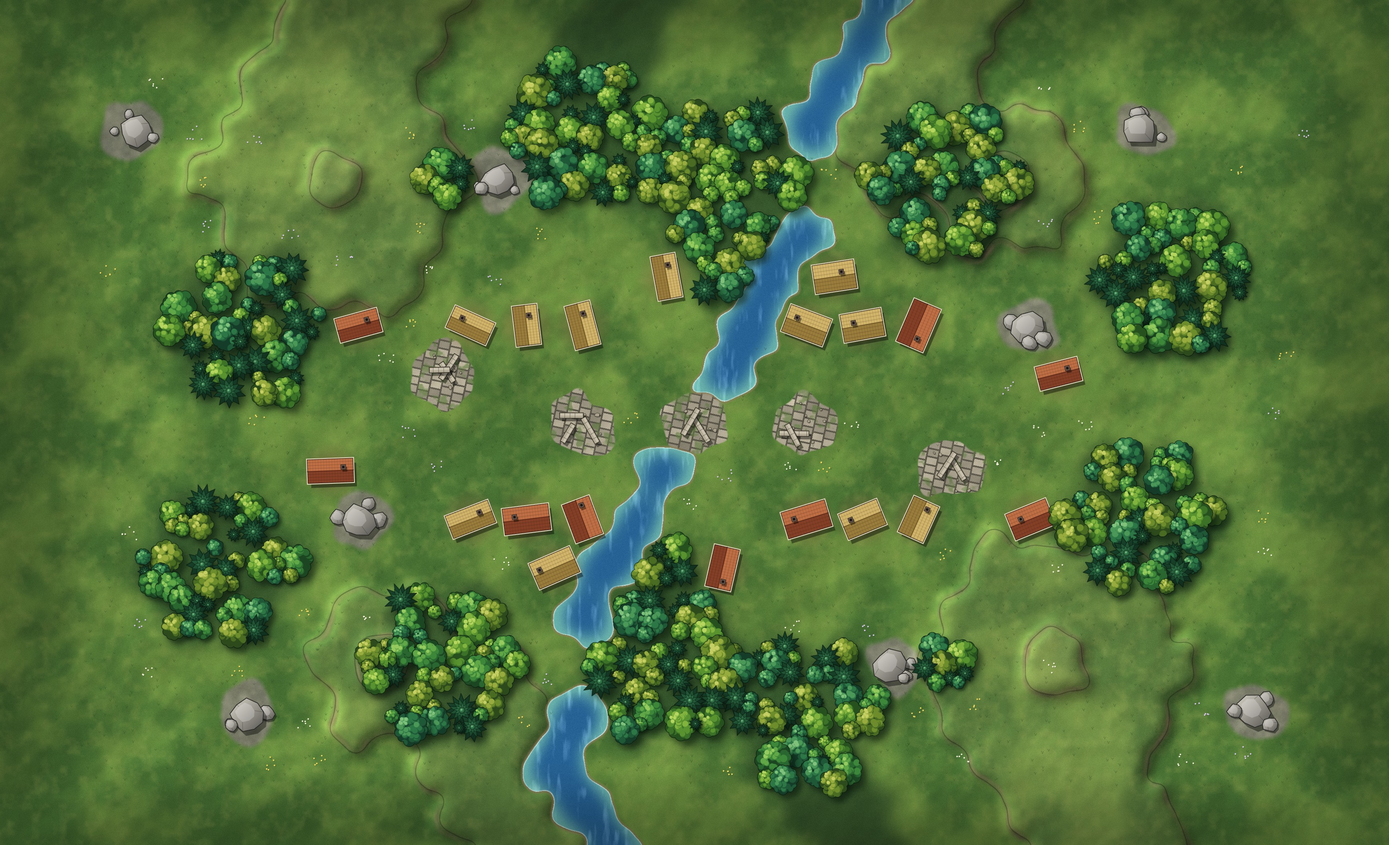
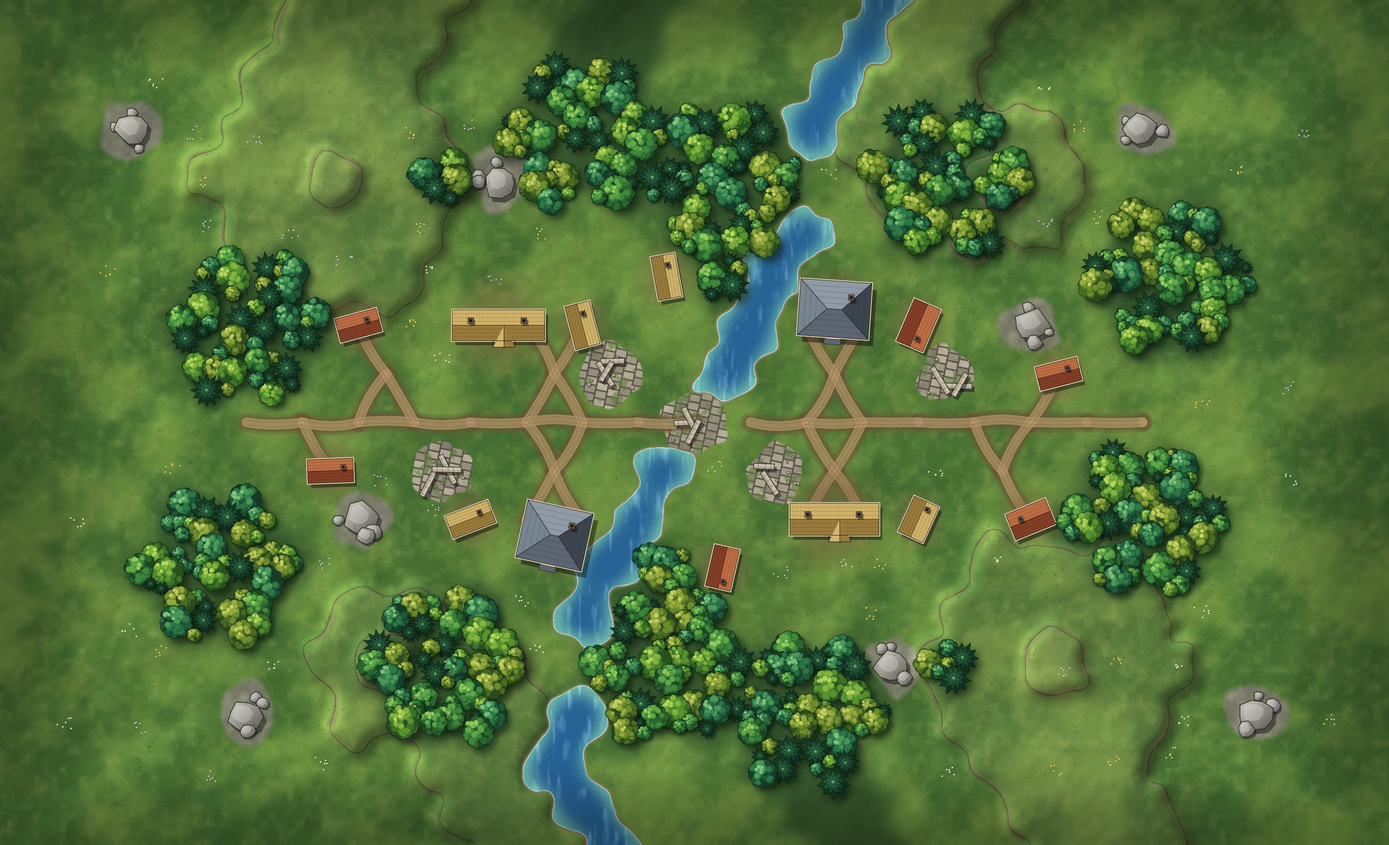
Paint adjacent houses as halls and manors; add roads

diff --git a/src/paint.js b/src/paint.js
@@ -27,6 +27,47 @@ export function houseLayout(q, r) {
   return { ang, w, d, t, off, dx: lx * Math.cos(ang) - ly * Math.sin(ang), dy: lx * Math.sin(ang) + ly * Math.cos(ang), thatch: h(77) < 0.4 };
 }
 
+// The buildings a set of cells makes. House hexes next to each other join up: three that all touch
+// become a manor, two a long hall, the rest stand alone. Each building is
+//   { cells, kind: 'house' | 'hall' | 'manor', ang, w, d, thatch, chim: [{t, off, dx, dy}] }
+// with sizes in units of the hex size and the chimneys given from the building's middle (the
+// average of its hexes' centres). Deterministic, so the painter and the smoke agree.
+export function buildings(cellList) {
+  const houses = cellList.filter((c) => c.t === 'house').sort((x, y) => x.r - y.r || x.q - y.q);
+  const at = new Map(houses.map((c) => [key(c.q, c.r), c])), used = new Set(), out = [];
+  const N = [[1, 0], [1, -1], [0, -1], [-1, 0], [-1, 1], [0, 1]];
+  const free = (c) => N.map(([dq, dr]) => at.get(key(c.q + dq, c.r + dr))).filter((n) => n && !used.has(n));
+  const px = (c) => [Math.sqrt(3) * (c.q + c.r / 2), 1.5 * c.r];
+  const chimney = (ang, w, d, t, off) => { const lx = t * w, ly = off * d; return { t, off, dx: lx * Math.cos(ang) - ly * Math.sin(ang), dy: lx * Math.sin(ang) + ly * Math.cos(ang) }; };
+  for (const c of houses) {                              // manors first
+    if (used.has(c)) continue;
+    const nb = free(c);
+    let trio = null;
+    for (const x of nb) for (const y of nb) if (x !== y && dist(x, y) === 1) trio = trio || [c, x, y];
+    if (!trio) continue;
+    trio.forEach((x) => used.add(x));
+    const h = (n) => hash(c.q * 3 + 11, c.r * 5 + 7, n), ang = (h(81) - 0.5) * 0.5, w = 1.02 + h(82) * 0.1, d = 0.86 + h(83) * 0.08;
+    out.push({ cells: trio, kind: 'manor', ang, w, d, thatch: false, chim: [chimney(ang, w, d, h(84) < 0.5 ? -0.45 : 0.45, -0.45)] });
+  }
+  for (const c of houses) {                              // then halls
+    if (used.has(c)) continue;
+    const n = free(c)[0];
+    if (!n) continue;
+    used.add(c); used.add(n);
+    const [x0, y0] = px(c), [x1, y1] = px(n), h = (k) => hash(c.q * 3 + 11, c.r * 5 + 7, k);
+    let ang = Math.atan2(y1 - y0, x1 - x0);
+    if (ang > Math.PI / 2 || ang <= -Math.PI / 2) ang += Math.PI * (ang > 0 ? -1 : 1);     // keep the lit slope on top
+    const w = 1.36 + h(85) * 0.08, d = 0.46 + h(86) * 0.07;
+    out.push({ cells: [c, n], kind: 'hall', ang, w, d, thatch: h(87) < 0.35, chim: [chimney(ang, w, d, -0.6, -0.3), chimney(ang, w, d, 0.55, -0.3)] });
+  }
+  for (const c of houses) {                              // the rest stand alone
+    if (used.has(c)) continue;
+    const lay = houseLayout(c.q, c.r);
+    out.push({ cells: [c], kind: 'house', ang: lay.ang, w: lay.w, d: lay.d, thatch: lay.thatch, chim: [{ t: lay.t, off: lay.off, dx: lay.dx, dy: lay.dy }] });
+  }
+  return out;
+}
+
 function hash(x, y, s) {
   let h = Math.imul(x | 0, 374761393) ^ Math.imul(y | 0, 668265263) ^ Math.imul(s | 0, 1442695041);
   h = Math.imul(h ^ (h >>> 13), 1274126177);
@@ -302,6 +343,37 @@ export function paintBackdrop(map, { hexPx = 140, seed = 7, biome = 'meadow' } =
   };
   ctx.lineJoin = 'round'; ctx.lineCap = 'round';
 
+  // Roads: a trodden track from each road hex to the road hexes next to it, onto a bridge (ruins by water), and up to a house's door.
+  {
+    const N = [[1, 0], [1, -1], [0, -1], [-1, 0], [-1, 1], [0, 1]];
+    const segs = [], seen = new Set();
+    for (const c of sorted) {
+      if (c.t !== 'road') continue;
+      for (const [dq, dr] of N) {
+        const n = map.cells[key(c.q + dq, c.r + dr)];
+        if (!n || (n.t !== 'road' && n.t !== 'ruins' && n.t !== 'house')) continue;
+        // Ruins count only as a bridge (next to water); a house gets one path, from the first road hex that reaches it.
+        if (n.t === 'ruins' && !N.some(([aq, ar]) => map.cells[key(n.q + aq, n.r + ar)]?.t === 'water')) continue;
+        const id = n.t === 'road' ? [key(c.q, c.r), key(n.q, n.r)].sort().join('|') : '>' + key(n.q, n.r);
+        if (seen.has(id)) continue;
+        seen.add(id);
+        const [x0, y0] = centre(c), [x1, y1] = centre(n), bend = (hash(c.q + n.q, c.r + n.r, seed + 90) - 0.5) * s * 0.5;
+        segs.push([x0, y0, x1, y1, (x0 + x1) / 2 - (y1 - y0) / (s * 1.73) * bend, (y0 + y1) / 2 + (x1 - x0) / (s * 1.73) * bend]);
+      }
+      if (!segs.some((g0) => g0[0] === centre(c)[0] && g0[1] === centre(c)[1])) { const [x, y] = centre(c); segs.push([x, y, x + 0.01, y, x, y]); }   // a lone road hex
+    }
+    const dirt = snow ? ['rgba(150,160,176,', 'rgba(196,204,216,'] : desert ? ['rgba(168,132,90,', 'rgba(232,206,160,'] : cave ? ['rgba(48,44,42,', 'rgba(104,96,88,'] : ['rgba(104,84,52,', 'rgba(176,148,104,'];
+    for (const [col, width, alpha] of [[dirt[0], 0.62, 0.3], [dirt[0], 0.46, 0.5], [dirt[1], 0.3, 0.75]]) {
+      ctx.strokeStyle = col + alpha + ')'; ctx.lineWidth = s * width;
+      for (const [x0, y0, x1, y1, mx, my] of segs) { ctx.beginPath(); ctx.moveTo(x0, y0); ctx.quadraticCurveTo(mx, my, x1, y1); ctx.stroke(); }
+    }
+    ctx.strokeStyle = 'rgba(40,28,14,0.22)'; ctx.lineWidth = 1.2;                                     // cart ruts
+    for (const [x0, y0, x1, y1, mx, my] of segs) for (const off of [-0.07, 0.07]) {
+      const nx = -(y1 - y0), ny = x1 - x0, nl = Math.hypot(nx, ny) || 1, ox = nx / nl * s * off, oy = ny / nl * s * off;
+      ctx.beginPath(); ctx.moveTo(x0 + ox, y0 + oy); ctx.quadraticCurveTo(mx + ox, my + oy, x1 + ox, y1 + oy); ctx.stroke();
+    }
+  }
+
   // Meadow details: grass tufts, a few flowers.
   for (const c of sorted) {
     if (c.t !== 'grass' || snow) continue;
@@ -466,28 +538,43 @@ export function paintBackdrop(map, { hexPx = 140, seed = 7, biome = 'meadow' } =
 
   }
 
-  // Houses, seen from above: a pitched roof (one slope lit, one in shade), a ridge, a chimney, and
-  // a trodden yard around it. Tiled or thatched in a meadow, snow-covered in winter, flat-roofed
-  // adobe in the desert, stone in a cave.
-  for (const c of sorted) {
-    if (c.t !== 'house') continue;
-    const [cx, cy] = centre(c);
-    const lay = houseLayout(c.q, c.r), w = lay.w * s, d = lay.d * s;
-    const yard = ctx.createRadialGradient(cx, cy, s * 0.2, cx, cy, s * 0.95);
+  // Buildings, seen from above: a pitched roof (one slope lit, one in shade), a ridge, chimneys,
+  // and a trodden yard. Tiled or thatched in a meadow, snow-covered in winter, flat-roofed adobe
+  // in the desert, stone in a cave. Halls are long, manors have a hipped roof and a porch.
+  for (const b of buildings(sorted)) {
+    let cx = 0, cy = 0;
+    for (const c of b.cells) { const [x, y] = centre(c); cx += x / b.cells.length; cy += y / b.cells.length; }
+    const w = b.w * s, d = b.d * s, reach = Math.max(w, d) + s * 0.4;
+    const yard = ctx.createRadialGradient(cx, cy, reach * 0.3, cx, cy, reach);
     yard.addColorStop(0, snow ? 'rgba(150,160,175,0.45)' : cave ? 'rgba(60,54,50,0.5)' : 'rgba(124,98,62,0.55)'); yard.addColorStop(1, 'rgba(124,98,62,0)');
-    ctx.fillStyle = yard; ctx.beginPath(); ctx.arc(cx, cy, s * 0.95, 0, 6.3); ctx.fill();
+    ctx.fillStyle = yard; ctx.beginPath(); ctx.arc(cx, cy, reach, 0, 6.3); ctx.fill();
     const roof = snow ? ['#f6f9fd', '#c2ccdb', '#8b97aa'] : desert ? ['#e2c596', '#cfae7c', '#9c7d52'] : cave ? ['#8a857f', '#57534f', '#3a3734']
-      : lay.thatch ? ['#d2b56a', '#9a7d3c', '#6d5626'] : ['#c06f45', '#853f27', '#5e2a1a'];
+      : b.thatch ? ['#d2b56a', '#9a7d3c', '#6d5626'] : b.kind === 'manor' ? ['#8f9aa6', '#5c6672', '#3c444e'] : ['#c06f45', '#853f27', '#5e2a1a'];
     ctx.save();
-    ctx.translate(cx, cy); ctx.rotate(lay.ang);
-    const sx = s * 0.1 * Math.cos(-lay.ang) - s * 0.14 * Math.sin(-lay.ang), sy = s * 0.1 * Math.sin(-lay.ang) + s * 0.14 * Math.cos(-lay.ang);
+    ctx.translate(cx, cy); ctx.rotate(b.ang);
+    const sh = b.kind === 'manor' ? 1.5 : 1;                                                           // taller buildings throw longer shadows
+    const sx = sh * (s * 0.1 * Math.cos(-b.ang) - s * 0.14 * Math.sin(-b.ang)), sy = sh * (s * 0.1 * Math.sin(-b.ang) + s * 0.14 * Math.cos(-b.ang));
     ctx.fillStyle = 'rgba(0,0,0,0.42)'; ctx.fillRect(-w + sx, -d + sy, 2 * w, 2 * d);                 // shadow
     ctx.fillStyle = snow ? '#6f5a48' : desert ? '#b8935f' : cave ? '#2c2a28' : '#e9dcc0';             // walls showing under the eaves
     ctx.fillRect(-w - s * 0.035, -d - s * 0.035, 2 * w + s * 0.07, 2 * d + s * 0.07);
+    const P = (pts, fill) => { ctx.beginPath(); pts.forEach(([x, y], i) => (i ? ctx.lineTo(x, y) : ctx.moveTo(x, y))); ctx.closePath(); ctx.fillStyle = fill; ctx.fill(); };
     if (desert) {                                                                                     // flat roof with a parapet
       ctx.fillStyle = roof[1]; ctx.fillRect(-w, -d, 2 * w, 2 * d);
       ctx.fillStyle = roof[0]; ctx.fillRect(-w + s * 0.07, -d + s * 0.07, 2 * w - s * 0.14, 2 * d - s * 0.14);
       ctx.fillStyle = 'rgba(60,40,20,0.5)'; ctx.fillRect(w * 0.25, -d * 0.45, s * 0.14, s * 0.14);      // roof hatch
+    } else if (b.kind === 'manor') {                                                                  // hipped: four slopes meeting at a short ridge
+      const rx = Math.max(0, w - d);
+      P([[-w, -d], [w, -d], [rx, 0], [-rx, 0]], roof[0]);
+      P([[-w, d], [w, d], [rx, 0], [-rx, 0]], roof[1]);
+      P([[-w, -d], [-rx, 0], [-w, d]], snow ? '#dfe6f0' : cave ? '#726d68' : '#788490');
+      P([[w, -d], [rx, 0], [w, d]], roof[2]);
+      ctx.strokeStyle = 'rgba(20,24,30,0.3)'; ctx.lineWidth = 1;
+      for (let i = 1; i < 5; i++) { const k = i / 5; ctx.strokeRect(-w * k - rx * (1 - k), -d * k, 2 * (w * k + rx * (1 - k)), 2 * d * k); }
+      ctx.strokeStyle = 'rgba(16,18,22,0.75)'; ctx.lineWidth = 1.6;
+      ctx.beginPath(); ctx.moveTo(-w, -d); ctx.lineTo(-rx, 0); ctx.lineTo(-w, d); ctx.moveTo(w, -d); ctx.lineTo(rx, 0); ctx.lineTo(w, d); ctx.moveTo(-rx, 0); ctx.lineTo(rx, 0); ctx.stroke();
+      ctx.fillStyle = snow ? '#6f5a48' : '#d9ccb0'; ctx.fillRect(-s * 0.22, d, s * 0.44, s * 0.2);      // porch
+      ctx.fillStyle = roof[1]; ctx.fillRect(-s * 0.26, d + s * 0.06, s * 0.52, s * 0.16);
+      ctx.strokeStyle = 'rgba(16,18,22,0.75)'; ctx.lineWidth = 1.2; ctx.strokeRect(-s * 0.26, d + s * 0.06, s * 0.52, s * 0.16);
     } else {
       ctx.fillStyle = roof[0]; ctx.fillRect(-w, -d, 2 * w, d);                                         // lit slope
       ctx.fillStyle = roof[1]; ctx.fillRect(-w, 0, 2 * w, d);                                          // shaded slope
@@ -496,13 +583,22 @@ export function paintBackdrop(map, { hexPx = 140, seed = 7, biome = 'meadow' } =
       ctx.strokeStyle = 'rgba(30,18,10,0.14)';
       for (let x = -w + s * 0.08; x < w; x += s * 0.085) { ctx.beginPath(); ctx.moveTo(x, -d); ctx.lineTo(x, d); ctx.stroke(); }
       ctx.strokeStyle = roof[2]; ctx.lineWidth = 2.2; ctx.beginPath(); ctx.moveTo(-w, 0); ctx.lineTo(w, 0); ctx.stroke();   // ridge
+      if (b.kind === 'hall') {                                                                         // a cross-gable breaks up the long roof
+        const gx = w * 0.12, gw = s * 0.34;
+        P([[gx - gw, d + s * 0.2], [gx, 0], [gx + gw, d + s * 0.2]], roof[1]);
+        P([[gx - gw, d + s * 0.2], [gx, 0], [gx, d + s * 0.2]], roof[0]);
+        ctx.strokeStyle = 'rgba(24,16,10,0.85)'; ctx.lineWidth = 1.4;
+        ctx.beginPath(); ctx.moveTo(gx - gw, d); ctx.lineTo(gx - gw, d + s * 0.2); ctx.lineTo(gx + gw, d + s * 0.2); ctx.lineTo(gx + gw, d); ctx.moveTo(gx, 0); ctx.lineTo(gx, d + s * 0.2); ctx.stroke();
+      }
     }
     ctx.strokeStyle = 'rgba(24,16,10,0.85)'; ctx.lineWidth = 1.4; ctx.strokeRect(-w, -d, 2 * w, 2 * d);
-    const cs = s * 0.075, chx = lay.t * w, chy = lay.off * d;                                          // the chimney
-    ctx.fillStyle = 'rgba(0,0,0,0.4)'; ctx.fillRect(chx - cs + sx * 0.5, chy - cs + sy * 0.5, 2 * cs, 2 * cs);
-    ctx.fillStyle = desert ? '#8f6e44' : '#6b5a52'; ctx.fillRect(chx - cs, chy - cs, 2 * cs, 2 * cs);
-    ctx.fillStyle = '#1c1512'; ctx.fillRect(chx - cs * 0.5, chy - cs * 0.5, cs, cs);
-    ctx.strokeStyle = 'rgba(20,14,10,0.9)'; ctx.lineWidth = 1; ctx.strokeRect(chx - cs, chy - cs, 2 * cs, 2 * cs);
+    for (const ch of b.chim) {
+      const cs = s * (b.kind === 'house' ? 0.075 : 0.09), chx = ch.t * w, chy = ch.off * d;
+      ctx.fillStyle = 'rgba(0,0,0,0.4)'; ctx.fillRect(chx - cs + sx * 0.5, chy - cs + sy * 0.5, 2 * cs, 2 * cs);
+      ctx.fillStyle = desert ? '#8f6e44' : '#6b5a52'; ctx.fillRect(chx - cs, chy - cs, 2 * cs, 2 * cs);
+      ctx.fillStyle = '#1c1512'; ctx.fillRect(chx - cs * 0.5, chy - cs * 0.5, cs, cs);
+      ctx.strokeStyle = 'rgba(20,14,10,0.9)'; ctx.lineWidth = 1; ctx.strokeRect(chx - cs, chy - cs, 2 * cs, 2 * cs);
+    }
     ctx.restore();
   }
 

diff --git a/src/render.js b/src/render.js
@@ -1,7 +1,7 @@
 // 2.5D canvas renderer: hexes are drawn as prisms, back row first, so height reads naturally.
 import { CLASSES, footprint, isBig } from './engine.js';
 import { key, DIRS, hexRound } from './hex.js';
-import { houseLayout } from './paint.js';
+import { buildings } from './paint.js';
 
 // Two views share this code. Top-down (flat): undistorted hexes, height shown by shade, a number
 // and contour/cliff edges. 2.5D: ground plane squashed vertically and hexes raised by elevation.
@@ -11,6 +11,7 @@ const TOP = {
   forest: ['#5b9a48', '#6ca952', '#84b65d', '#a0c06e'],
   ruins: ['#9a9a7c', '#a8a888', '#b6b694', '#c4c4a2'],
   spikes: ['#8d8f86', '#9a9c92', '#a8aa9f', '#b6b8ac'],
+  road: ['#b9a070', '#c2aa7c', '#cbb488', '#d4be94'],
   house: ['#b98a5e', '#c2946a', '#cb9e76', '#d4a882'],
   rock: ['#7d8a80', '#8a968b', '#98a397', '#a6b0a3'],
   water: ['#4a93cf', '#4a93cf', '#4a93cf', '#4a93cf'],
@@ -381,7 +382,7 @@ export class Renderer {
     if (this.wxMap !== this.map || this.wxBiome !== biome) {          // new map: start the weather afresh
       this.wxMap = this.map; this.wxBiome = biome;
       this.wxLava = this.order.filter((c) => c.t === 'lava');
-      this.wxHouses = this.order.filter((c) => c.t === 'house');
+      this.wxHouses = buildings(this.order).flatMap((b) => b.chim.map((ch) => ({ cells: b.cells, dx: ch.dx, dy: ch.dy })));   // one entry per chimney
       this.wxSmoke = [];
       this.wxKind = biome === 'snow' ? 'snow' : biome === 'desert' ? 'sand' : biome === 'cave' ? (this.wxLava.length ? 'embers' : 'motes') : 'clouds';
       const R = Math.random, area = w * h, many = (n, make) => Array.from({ length: Math.round(n) }, make);
@@ -484,10 +485,11 @@ export class Renderer {
       const SM = this.wxSmoke, S = this.S;
       for (let n = houses.length * 1.5 * dt; n > 0 && SM.length < 420; n -= 1) {
         if (Math.random() > n) break;
-        const c = houses[Math.floor(Math.random() * houses.length)], g = this.geo.get(key(c.q, c.r));
-        if (!g) break;
-        const lay = houseLayout(c.q, c.r);
-        SM.push({ x: g.x + lay.dx * S, y: g.y + lay.dy * S * this.sq, age: 0, life: 3.2 + Math.random() * 2.6, ph: Math.random() * 6.3 });
+        const ch = houses[Math.floor(Math.random() * houses.length)];
+        let gx = 0, gy = 0, gn = 0;                                  // the building's middle: the average of its hexes
+        for (const c of ch.cells) { const g = this.geo.get(key(c.q, c.r)); if (g) { gx += g.x; gy += g.y; gn++; } }
+        if (!gn) break;
+        SM.push({ x: gx / gn + ch.dx * S, y: gy / gn + ch.dy * S * this.sq, age: 0, life: 3.2 + Math.random() * 2.6, ph: Math.random() * 6.3 });
       }
       ctx.globalCompositeOperation = 'source-over';
       ctx.fillStyle = this.wxBiome === 'snow' ? '#aeb4bf' : this.wxBiome === 'cave' ? '#9a9aa0' : '#ececec';

diff --git a/src/engine.js b/src/engine.js
@@ -29,8 +29,12 @@ export const TERRAIN = {
   // Lava: nobody can stand in it or walk through it, but it doesn't block sight, and flyers cross it
   // (even under a cave ceiling). Burrowers pass beneath.
   lava:   { name: 'Lava',   cost: Infinity, cover: 0 },
+  // Road: plain ground, painted as a track. It joins up with the road, bridge (ruins) and house hexes next to it.
+  road:   { name: 'Road',   cost: 1, cover: 0 },
   // House: one-hex creatures can go inside (slow to enter, heavy cover); big ones can't. Like rock it
   // is tall, so it blocks sight lines that pass through it — though not for whoever is in it.
+  // House hexes next to each other are drawn as one larger building (two make a long hall, three in
+  // a triangle a manor); the rules still treat each hex on its own.
   house:  { name: 'House',  cost: 2, cover: 2, narrow: true, tall: true },
   rock:   { name: 'Rock',   cost: Infinity, cover: 0, tall: true },   // impassable, blocks line of sight
 };

diff --git a/src/main.js b/src/main.js
@@ -702,7 +702,7 @@ $('mapSel').addEventListener('change', (ev) => {
 // ---- Editor ----
 
 const BRUSHES = [
-  ['Terrain', [['Grass', 't:grass'], ['Forest', 't:forest'], ['Ruins', 't:ruins'], ['House', 't:house'], ['Stalagmites / stones', 't:spikes'], ['Water', 't:water'], ['Lava', 't:lava'], ['Rock', 't:rock']]],
+  ['Terrain', [['Grass', 't:grass'], ['Forest', 't:forest'], ['Ruins', 't:ruins'], ['House', 't:house'], ['Road', 't:road'], ['Stalagmites / stones', 't:spikes'], ['Water', 't:water'], ['Lava', 't:lava'], ['Rock', 't:rock']]],
   ['Height', [['0', 'e:0'], ['1', 'e:1'], ['2', 'e:2'], ['3', 'e:3']]],
   ['Markers (click to place or remove)', [['Blue spawn', 'spawn:0'], ['Red spawn', 'spawn:1'], ['Neutral monster', 'spawn:2'], ['Control point', 'objective']]],
   ['Board shape', [['Add hex', 'add'], ['Remove hex', 'remove']]],

diff --git a/README.md b/README.md
@@ -77,7 +77,7 @@ The map file format is documented at the top of the "Map files" section in `src/
 ## Rules
 
 - Each turn, every unit may move once and then attack (or wait). Eliminate the other team; round 30 is a draw.
-- **Terrain** — forest: move cost 2, cover 1 · ruins: cover 2 · stalagmites (painted as standing stones above ground): move cost 2, cover 1, and only one-hex creatures fit among them (big ones can't stand there; flyers and burrowers may pass) · water: move cost 2, occupant takes +1 and deals -1 · lava: impassable on foot and nobody can stand in it, but it does not block sight and flyers cross it · house: move cost 2, cover 2, one-hex creatures only, and it blocks sight lines that pass through it · rock: impassable, blocks sight.
+- **Terrain** — forest: move cost 2, cover 1 · ruins: cover 2 · stalagmites (painted as standing stones above ground): move cost 2, cover 1, and only one-hex creatures fit among them (big ones can't stand there; flyers and burrowers may pass) · water: move cost 2, occupant takes +1 and deals -1 · lava: impassable on foot and nobody can stand in it, but it does not block sight and flyers cross it · house: move cost 2, cover 2, one-hex creatures only, and it blocks sight lines that pass through it; house hexes next to each other are painted as one larger building (two make a long hall, three in a triangle a manor), though the rules still treat each hex on its own · road: plain ground, painted as a track that joins neighbouring road hexes, bridges and house doors · rock: impassable, blocks sight.
 - **Height** (0–3) — climbing costs +1 move, a 2-level step is a cliff. Attacks get +1 damage per level above the target (-1 per level below, max 2). Archers get +1 range from high ground. Hills block line of sight.
 - **Objective** — *Eliminate* (default), or *Hold the points*: the map has control points (ringed, with a
   pennant). At the end of each team's turn, a point with a unit standing on it goes to that unit's team and
